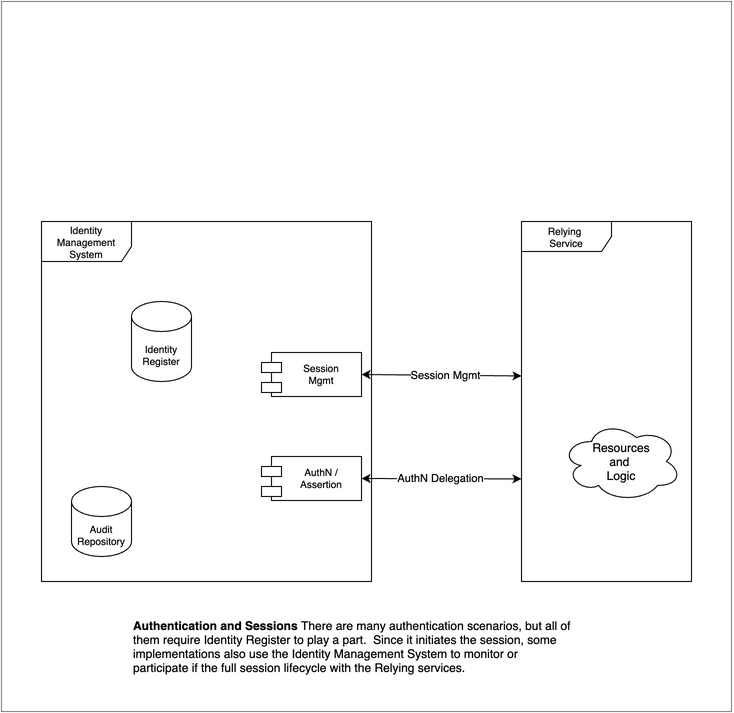
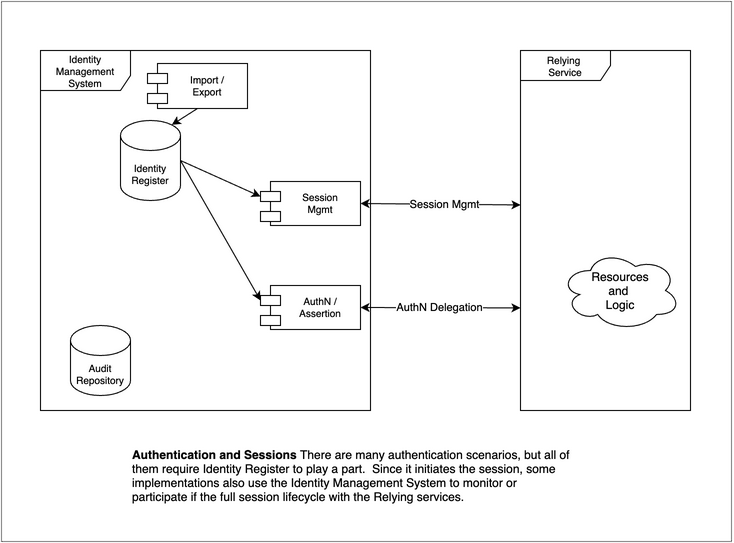
improved graphics, 1st draft of .md, fixed prepare_figures

diff --git a/tech-arch.md b/tech-arch.md
@@ -1,17 +1,68 @@
 # Technical Architecture Model
 ## Abstract
-This document provides a model to organize the presentation of technical details associated with various implementations of the architectural concepts.  This article provides the set of generic components which are exemplified below.  It is a restatement/extension of the ISO framing. The extension allows authorization and governance can be included. It is simplified to remove the UML fine points, which will be off putting to the typical reader. 
+This document provides a model to organize the presentation of technical details associated with various implementations of the architectural concepts.  This article provides the set of generic components which are exemplified below.  It is a restatement/extension of the ISO framing. It is simplified to remove the UML fine points, which the typical reader, may not find helpful. The extension allows authorization and governance can be included. Another extension shows how external risk context can be incorporated into the identity management system. 
 
 ## Introduction
-The following is the basic organization of an identity management system.  It supports multiple relying services.
+The following is the basic organization of an identity management system, which supports multiple relying services.
 
 ![](resources/basic-component-dependencies.png)
 
-The most basic function of the identity system is to provide secure storage of the information about identities.  The audit repository is shown since that is perhaps one of the most salient aspects of providing that security.
+The most basic function of the identity system is to provide secure storage of the information about identities.  The audit repository is shown since that is perhaps one of the most salient aspects of providing that security. 
+
+While, it is possible to have an identity management system without attaching it to external data, this is typically not the case. Usually employee or customer data needs to be imported.
+
+The model can be used at different levels.  For instance, a modern architecture may have a web-hosted application that calls on an Identity as a Service (IDaaS) cloud provider, which acts as the Identity Management System.  In another example, a file system grants access to users based on the user information acquired at login.  Despite both these functions being encapsulated in an operating system, the model holds.
 
 We will add on more detail during the next several sections.
 
 ## Provisioning
 Provisioning describes how the data gets into the identity repository and how it flows further on to support authorization decisions.
 
+Note that the Identity Information Source can be singular, such as a single HR system.  Or it can plural, for instance in the case of a company that has, say, more than one HR system.
+
+Also note, that the notion of importing does not necessarily mean making a physical copy of data, although it often does. The notion also supports the idea of virtualization - where the import of identity information is done at run-time.
+
+The Identity Register could be implemented several ways.  Common methods include the use of general purposed databases, optimized stores such as directories and, as mentioned above, virtual directories.
+
+Shown also, here is the function Principal and Credential Management.  This is intended to include steps needed to orginate and identity (such as proofing or vetting) as well as on-going maintenance such as password reset and other credential management activities such as token provisioning.  This function includes administrative activities and self-serve activities.
+
+Also noted is the function of propagating selected information further into the ecosystem.  This is typically done for relying services that need additional information about the users, often for the purpose of access control or personalization.  The assumption is that the relying system makes a copy of the identity data and integrates it with application data.  Of course, a complete solution will allow for the full lifecycle including creation, update and eventual dispostion of the identity data stored locally.
+
+Not shown here, but sometimes implemented, are provisioning actions that occur more on a just-in-time basis.  This can happen based on an assertion that the user is authenticated.  In this case identity information, possibly including, attributes is passed on to the relying system "just-in-time".  In a similar case, the relying party, may query the indenty management system, in order to acquire attributes.
+
 ![](resources/provisioning.png)
+
+## Authentication and sessions
+By authentication we mean that the Idenity Management System checks and verifies credentials that are presented by the Relying Service on behalf of the user.  There are many such scenarios.  
+
+A common pattern is to associate the authentication event with the start of a session.  The session is mostly the concern of the relying system.  However, it is sometimes desirable to keep the sessions supported by several relying parties in synch. For instance, logging out of one, logs out of all.  To do this, often the Identity Management System plays a role.
+
+The session can play an important role in step-up authentication.  The session can keep track of the level of assurance of a particular authentication, so when a relying service has a sensitive transaction needing step-up authentication, the identity management system can be prepared to determine the course of action.  This could be done at the relying system, but that would end up with a poor user experience if multiple relying systems with step-up needs were in play.
+
+The existence of a centralized point of view about sessions, can be leveraged for advanced scenarios which include external risk facts. See Risk Context below.
+
+![](resources/authentication-and-sessions.png)
+## Authorization models 
+Authorization models vary alot. The diagram shows two alternative approaches for authorization.
+
+Both approaches typically use user attributes help determine access.  These values can be provisioned into a local store, as described above in Provisioning.  Or the values can be acquired at run-time from the Identity Management System. 
+
+Many relying services perform authorization tasks internally.  The local nature of the protected resources often makes this appealing.  
+
+Sometimes authorization is a shared resource for many relying services.  
+
+![](resources/authorization-models.png)
+## Access governance
+Access Governance provides oversight and control over access rights implemented in many local or shared authorization systems.  Both of these may rely on user attributes such as groups or roles stored in an Identity Register. 
+
+Typically, goverance activities review and may modify the data in one or more of the authorization components in order to effect a change in entitlements.
+
+This is frequently implemented in enterprise systems focusing of employee/contractor entitlements.  However, the concept can also apply to customer facing scenarios such as busines to business delegated rights or business to customer scenarios where delegation such as power of attorney or other agents are implemented.
+
+![](resources/access-governance.png)
+## Risk Context
+Risk context information can be valuable to improve the security of the relying service.  External events may be visiable to the Identity Management System operator through consortia or vendor packages.  In some mutual-support scenarios, it may be possible for the operator to also publish events for the benefit of others.
+
+Events need to be delivered into the Identity Management System so that they can selectively be used to modify the behavior of the authentication function.  In some severe scenarios it may be desirable to attach the events to the session management function so that current sessions can be reviewed and terminated if needed.
+
+![](resources/risk-context.png)
